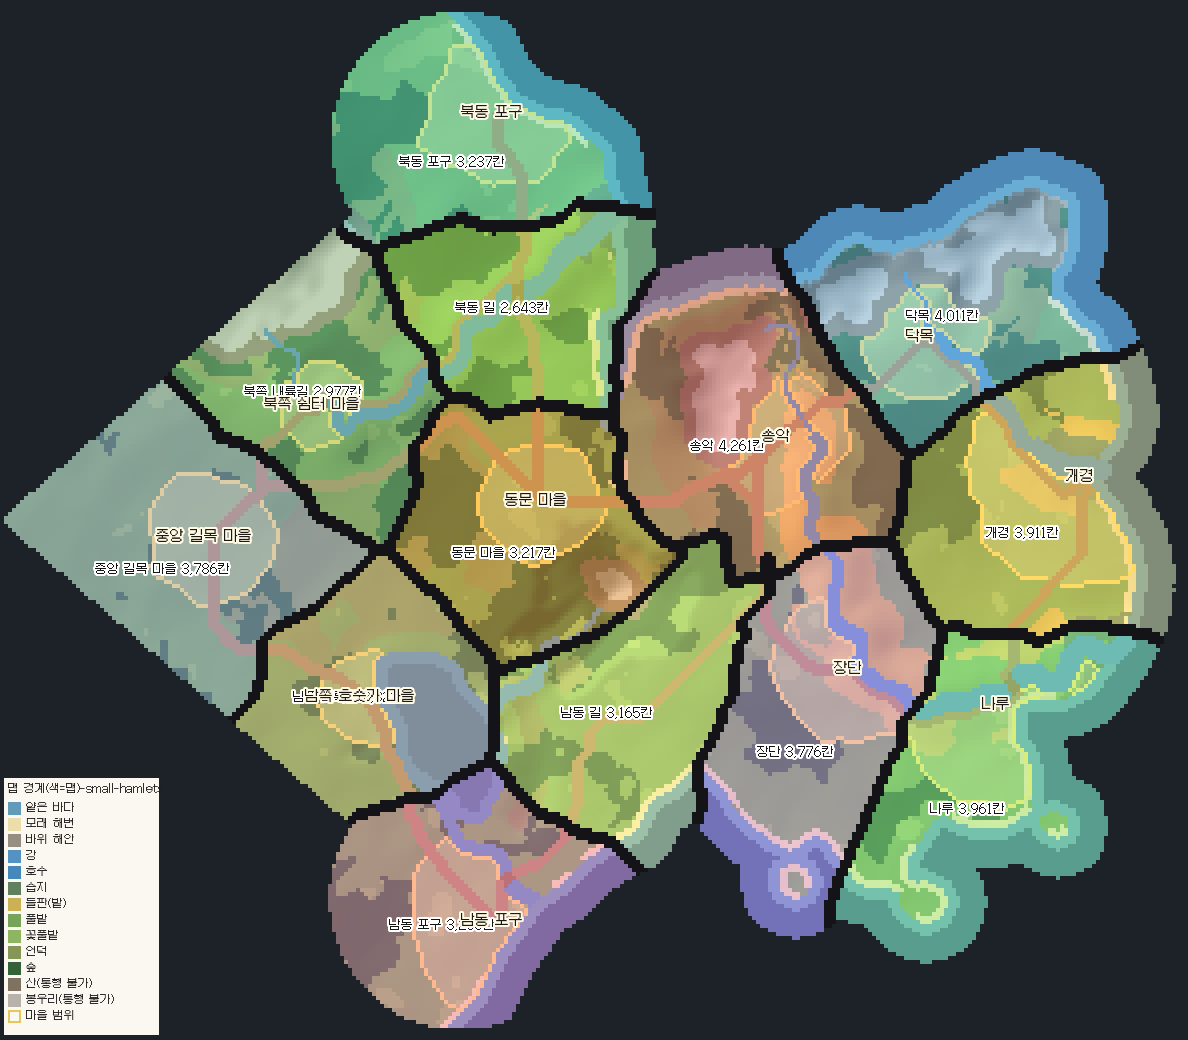
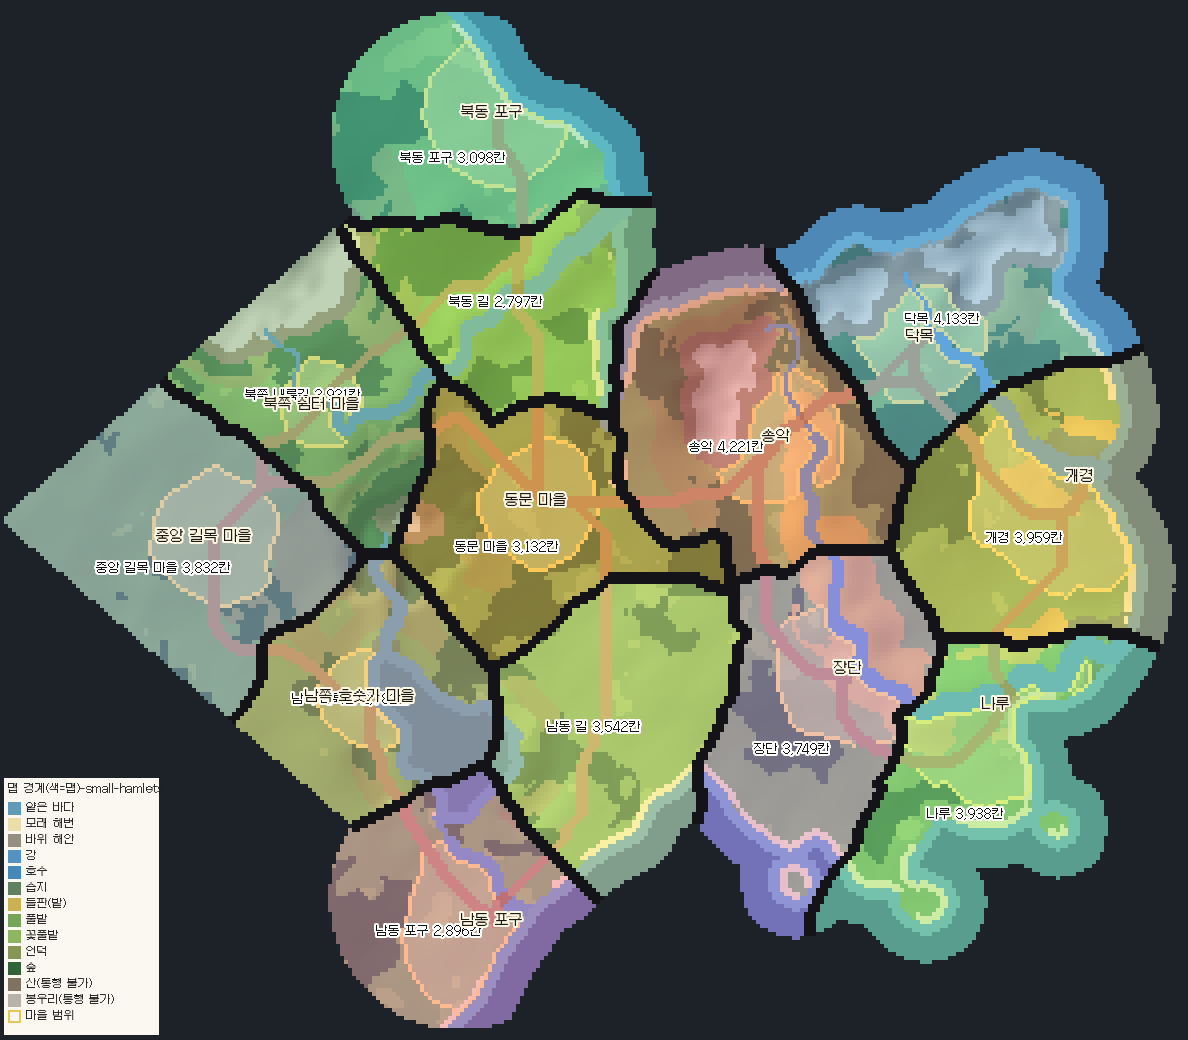
M1: 호수 만·곶, 산지 위 작은 산 덩어리, 굽이치는 유입 강, 물가를 비켜 가는 길
Claude-Session: https://claude.ai/code/session_01LeGdCGGAkPbpRa1d2kF6Yd

diff --git a/Tools/WorldLayout/terrain_v3.py b/Tools/WorldLayout/terrain_v3.py
@@ -249,7 +249,8 @@ def build(layout):
         theta=np.arctan2(v,u);rr_=np.sqrt((u/math.sqrt(asp))**2+(v*math.sqrt(asp))**2)
         wob=1+sum(a_*np.sin((k_+2)*theta+ph[k_]) for k_,a_ in enumerate(amp))
         En=(E-E[seed])/(np.ptp(E[land])+1e-9)
-        field=rr_/(r0*wob)+1.6*En+.32*frac
+        bay=noise((H,W),14,rng,2)-.5          # 큰 만·곶(호숫가가 크게 들고 남)
+        field=rr_/(r0*wob)+1.6*En+.32*frac+1.1*bay
         # 목표 면적이 되도록 문턱값을 찾는다
         cand_=land&inner&~river
         # 원형 잘림(직선 호숫가)이 생기지 않게 거리 제한은 넉넉히 두고, 먼 곳은 부드럽게 불리하게
@@ -260,7 +261,7 @@ def build(layout):
         m=(field<thr)&reach
         # 물가를 둥글게 다듬는다(계단·직선 모서리 제거)
         shore_n=noise((H,W),7,rng,3)-.5   # 물가에 작은 만·곶
-        m=((ndimage.gaussian_filter(m.astype(float),2.2)+.55*shore_n)>.5)&cand_
+        m=((ndimage.gaussian_filter(m.astype(float),1.7)+.45*shore_n)>.5)&cand_
         m=ndimage.binary_closing(ndimage.binary_opening(m),iterations=1)&cand_
         lab,n_=ndimage.label(m)
         if n_>1:m=lab==(1+int(np.argmax(ndimage.sum(np.ones_like(lab),lab,range(1,n_+1)))))
@@ -304,25 +305,33 @@ def build(layout):
         if best_:
             mcy,mcx=best_
             wob_=noise((H,W),5,rng,3);wy2=noise((H,W),9,rng,3)-.5;wx2=noise((H,W),9,rng,3)-.5
-            a_m=back+math.pi/2+rng.uniform(-.4,.4)     # 산 덩어리는 골짜기와 엇갈리게 조금 길쭉
-            du=(xx_-mcx)+6*wx2;dv=(yy_-mcy)+6*wy2
-            pu=du*math.cos(a_m)+dv*math.sin(a_m);pv=-du*math.sin(a_m)+dv*math.cos(a_m)
-            dr_=np.hypot(pu/1.35,pv)*(1+.35*(wob_-.5))
-            prof=np.exp(-(dr_/6)**2)+.5*np.exp(-(dr_/12)**2)
-            zone=(dr_<14)&east&land&~m&~river
-            elev=np.where(zone,np.maximum(elev,.55+.45*prof*(.8+.4*wob_)),elev)
-            t[zone&(dr_<12.5)&(forest_n>.30)]=FOREST;t[zone&(dr_<12.5)&(forest_n<=.30)]=HILL
-            t[zone&(dr_<7.4)]=MOUNTAIN;t[zone&(dr_<3.8)]=PEAK
+            du=(xx_-mcx)+7*wx2;dv=(yy_-mcy)+7*wy2
+            # 낮은 산지: 둘레로 번지는 언덕·숲 덩어리. 가장자리를 비틀어 주변 언덕과 이어지게
+            dr_=np.hypot(du,dv)*(1+.5*(wob_-.5))
+            upl=np.exp(-(dr_/11)**2)
+            # 산지 위의 작은 봉우리 2~3개(한 덩어리로 붙어 있는 작은 산)
+            pk=np.zeros((H,W))
+            for j_ in range(3):
+                aa=back+math.pi/2*(j_-1)+rng.uniform(-.5,.5);dd=0 if j_==1 else rng.uniform(4.5,7)
+                py0,px0=mcy+math.sin(aa)*dd,mcx+math.cos(aa)*dd;rad_=(5.8 if j_==1 else 4.3)
+                pk=np.maximum(pk,np.exp(-(np.hypot(yy_-py0+3*wy2,xx_-px0+3*wx2)/rad_)**2)*(1 if j_==1 else .82))
+                if j_==1:pk_main=np.exp(-(np.hypot(yy_-py0+3*wy2,xx_-px0+3*wx2)/rad_)**2)
+            zone=(dr_<17)&east&land&~m&~river
+            elev=np.where(zone,np.maximum(elev,.5+.22*upl*(.7+.6*wob_)+.28*pk),elev)
+            t[zone&(upl>.22)&(forest_n>.30)]=FOREST;t[zone&(upl>.22)&(forest_n<=.30)]=HILL
+            mtn=ndimage.binary_fill_holes(ndimage.binary_closing(pk>.36,iterations=2))   # 봉우리들이 한 덩어리로 붙게
+            t[zone&mtn]=MOUNTAIN;t[zone&(pk_main>.72)]=PEAK
+            dr_=np.where(mtn,0,dr_)   # 아래 개울 시작점 계산용(산 바로 바깥)
             lk['sourceMountain']=[round(mcx+X0,1),round(mcy+Y0,1)]
             # 강 1줄기: 산의 호수 쪽 비탈 높은 곳 → 호수의 상류 끝(출구 반대쪽 물가)
             lakeward=((yy_-mcy)*(cy-mcy)+(xx_-mcx)*(cx-mcx))>0
-            cand_=np.argwhere(zone&lakeward&~np.isin(t,[MOUNTAIN,PEAK])&(dr_<9.5))
+            cand_=np.argwhere(zone&lakeward&~np.isin(t,[MOUNTAIN,PEAK])&ndimage.binary_dilation(np.isin(t,[MOUNTAIN]),iterations=2))
             if len(cand_):
                 h0=tuple(cand_[np.argmax(elev[tuple(cand_.T)])])
                 mc=np.argwhere(m);far_end=np.cos(np.arctan2(mc[:,0]-cy,mc[:,1]-cx)-back)*np.hypot(mc[:,0]-cy,mc[:,1]-cx)
                 tip=mc[far_end>np.quantile(far_end,.9)]
                 m0=tuple(tip[np.argmin(((tip-np.array(h0))**2).sum(1))])
-                seg=astar(h0,m0,1+14*elev,blocked=np.isin(t,[MOUNTAIN,PEAK]),eight=True)
+                seg=astar(h0,m0,1+14*elev+4*noise((H,W),10,rng,2),blocked=np.isin(t,[MOUNTAIN,PEAK]),eight=True)
                 inflow.append(seg)
                 yy3,xx3=m0;t[(((yy_-yy3)**2+(xx_-xx3)**2)<4**2)&land&~m&(marsh_n>.4)]=MARSH
                 # 강 골짜기: 강을 따라 땅을 조금 낮춘다
@@ -348,7 +357,7 @@ def build(layout):
                 out_.append(q if 0<=q[0]<H and 0<=q[1]<W and (land[q] or sea[q]) and not m[q] else (y,x))
             return smooth_path(out_,np.zeros((H,W),bool))
         for path,width in [(out,1.3)]+[(q_,1.0) for q_ in inflow]:
-            pts=meander(path)
+            pts=meander(path) if path is out else meander(path,4.2,22)
             for i_,(y,x) in enumerate(pts):
                 rad=width*(.7+.5*i_/max(1,len(pts))) if path is out else .8+1.0*(i_/max(1,len(pts)))
                 rr=int(math.ceil(rad))
@@ -540,6 +549,8 @@ def roads(layout,w):
     for k,v in ROAD_COST.items():
         m=t==k;cost[m]=v;blocked[m]=False
     cost=cost*(1+1.1*wig**2+.25*fine)+6*slope
+    d_wat=ndimage.distance_transform_edt(~np.isin(t,[RIVER,LAKE]))
+    cost+=np.where((d_wat>0)&(d_wat<=4),3.0*(5-d_wat)/4,0)   # 물가 4칸 안은 조금 비싸다: 강·호숫가를 바짝 따라가지 않음
     centers={v['key']:(v['center'][1]-Y0,v['center'][0]-X0) for v in w['villages']}
     road=np.zeros((H,W),bool);records=[];paths=[]
     order=sorted(layout.data['roads'],key=lambda r:math.dist(layout.towns[r['fromKey']]['position'],layout.towns[r['toKey']]['position']))
